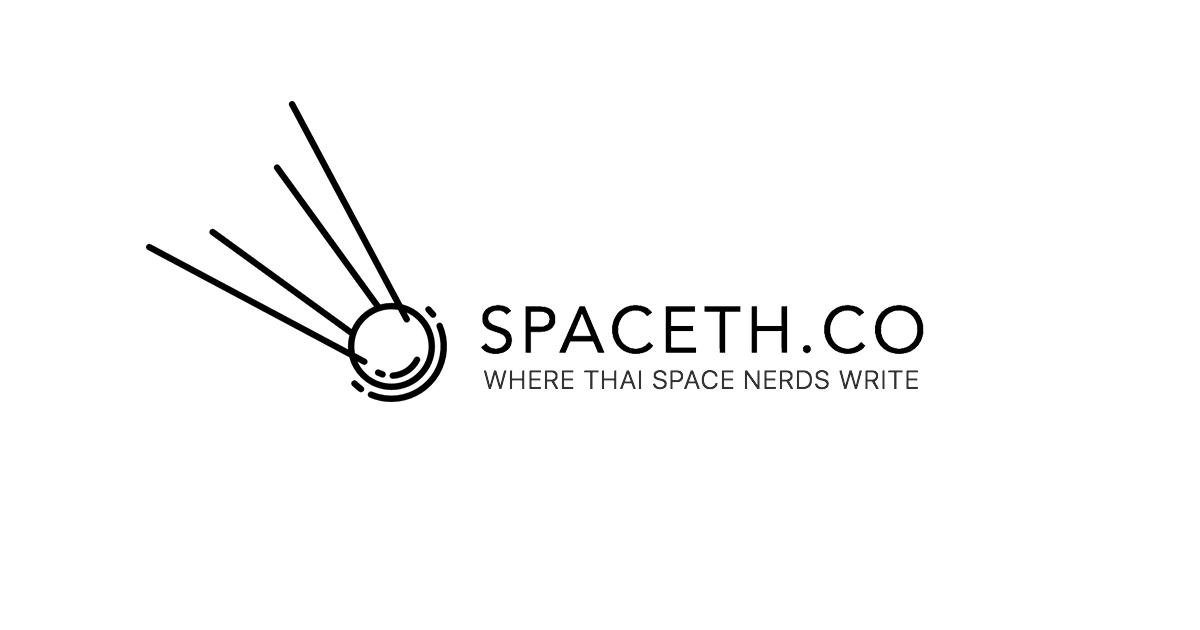
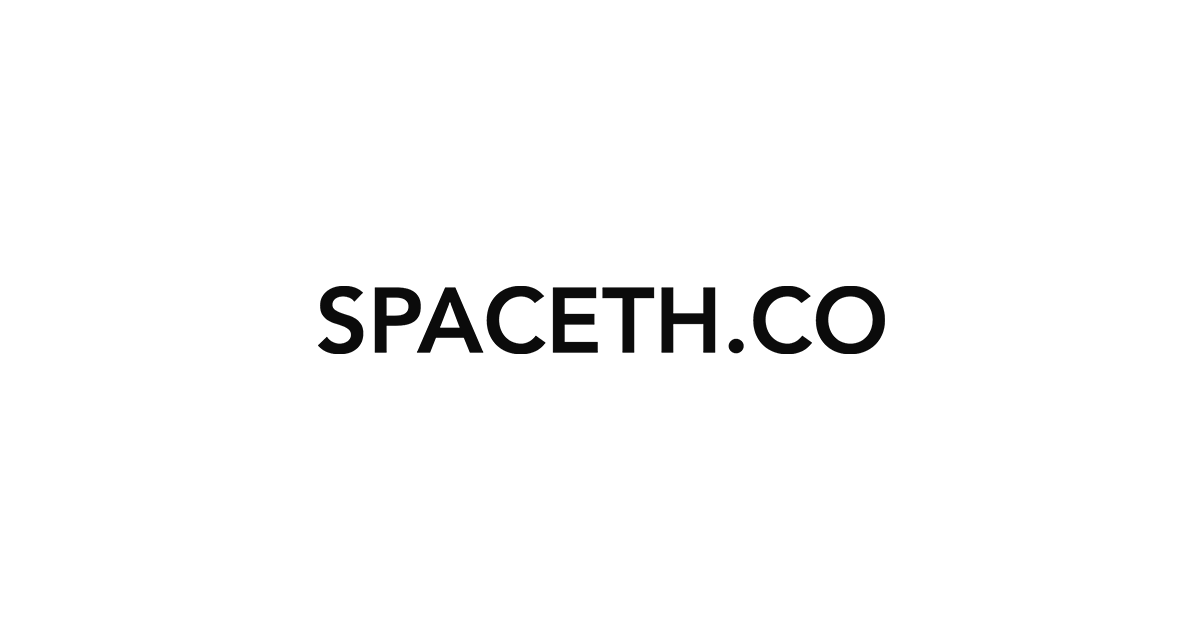
Redesign

diff --git a/assets/css/style.css b/assets/css/style.css
@@ -14,8 +14,8 @@ body {
 h1, h2, h3, h4 {
   margin: 0;
   font-family: 'Open Sans', sans-serif;
-  color:#ACADAE;
-  font-weight: 300;
+  color:#000;
+  font-weight: 500;
 }
 
 a {
@@ -25,15 +25,11 @@ a {
 
 p {
   font-family: 'Open Sans', sans-serif;
-  color:#666;
-}
-
-h1 {
-  font-size: 40px;
+  color:#333;
 }
 
 h2 {
-  font-size:  20px;
+  font-size:  1em;
 }
 
 /* Main Element */
@@ -45,33 +41,40 @@ h2 {
 
 .logo {
     background: url(../image/logo.svg) no-repeat center top;
-    margin: 50px 0 5px 0;
+    margin: 30vh 0 5px 0;
     display: inline-block;
-    background-size: 550px;
+    background-size: 400px;
     width: 100%;
-    height:270px;
+    height:100px;
 }
 
-.sneakpeek {
-  margin-top: 80px;
-  color:#333;
-  transition: 0.4s ease;
+/*  iPhone 7 */
+
+@media screen and (max-width:800px) {
+
+  .logo {
+      background: url(../image/logo.svg) no-repeat center top;
+      margin: 200px 0 5px 0;
+      display: inline-block;
+      background-size: 300px;
+      height:80px;
+  }
+
+  .wrapper {
+    padding: 20px 0px 20px 0px;
+    text-align: center;
+  }
+
 }
 
-.sneakpeek:hover {
-  color:#ACADAE;
-  transition: 0.4s ease;
+/*  iPhone SE */
+
+@media screen and (max-width:320px) {
+  .logo {
+      margin: 160px 0 5px 0;
+  }
 }
 
-.sneakpeek-icon {
-  background: url(../image/sneakpeek.svg);
-  background-size: 40px;
-  display: inline-block;
-  height: 40px;
-  width: 40px;
-  margin-right: 10px;
-  margin-bottom: -10px;
-}
 
 /*  Social Media*/
 
@@ -79,23 +82,47 @@ h2 {
   bottom: 30px;
   margin-left: -20px;
   display: inline-block;
-  position: absolute;
   height: 40px;
 }
 
 .social-media .social-media-icon {
-  margin: 0 10px 0 10px;
+  margin: 40px 20px 0 20px;
   display: inline-block;
   width: 30px;
   height: 30px;
 }
 
 .facebook {
-  background: url(../image/facebook.svg);
-  background-size: 30px;
+  background: url(../image/facebook.svg) center center;
+  background-size: 25px;
+  background-repeat: no-repeat;
 }
 
 .facebook:hover{
-    background: url(../image/facebook-color.svg);
+    background: url(../image/facebook-color.svg) center center;
+  background-size: 25px;
+    background-repeat: no-repeat;
+}
+
+.twitter {
+  background: url(../image/twitter.svg);
+  background-size: 30px;
+}
+
+.twitter:hover{
+    background: url(../image/twitter-color.svg);
     background-size: 30px;
+}
+
+/*  Footer*/
+
+footer {
+  bottom:0;
+    width: 100%;
+  position: absolute;
+}
+
+footer p {
+  font-size: .6em;
+  text-align: center;
 }

diff --git a/index.html b/index.html
@@ -52,11 +52,15 @@ src="https://www.facebook.com/tr?id=530356207153148&ev=PageView&noscript=1"
     <span class="logo">
     </span>
     <h2>Counting down to launch in Fall 2017<h2>
-    <!--<h3 class="sneakpeek"><span class="sneakpeek-icon"></span><a href="">See who will be writing here.</a></h3>-->
       <div class="social-media">
       <a href="https://facebook.com/spaceth" class="facebook social-media-icon"></a>
       </div>
+      <div class="social-media">
+      <a href="https://twitter.com/spacethnews" class="twitter social-media-icon"></a>
+      </div>
   </div>
-
+  <footer>
+<p>COPYRIGHT © 2017 SPACETH.CO RIGHTS RESERVED.</p>
+  </footer>
   </body>
 </html>
